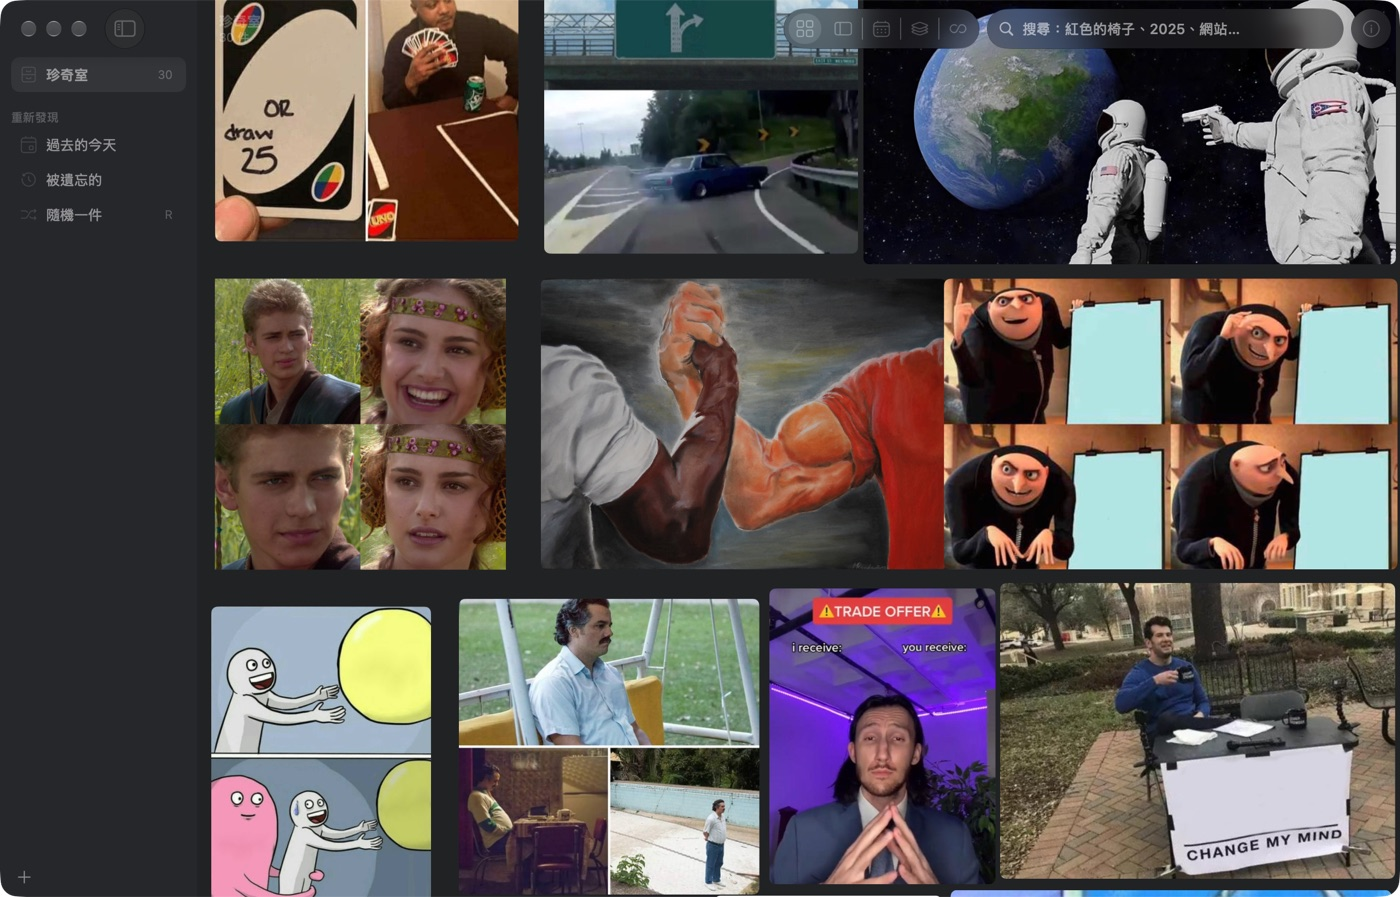
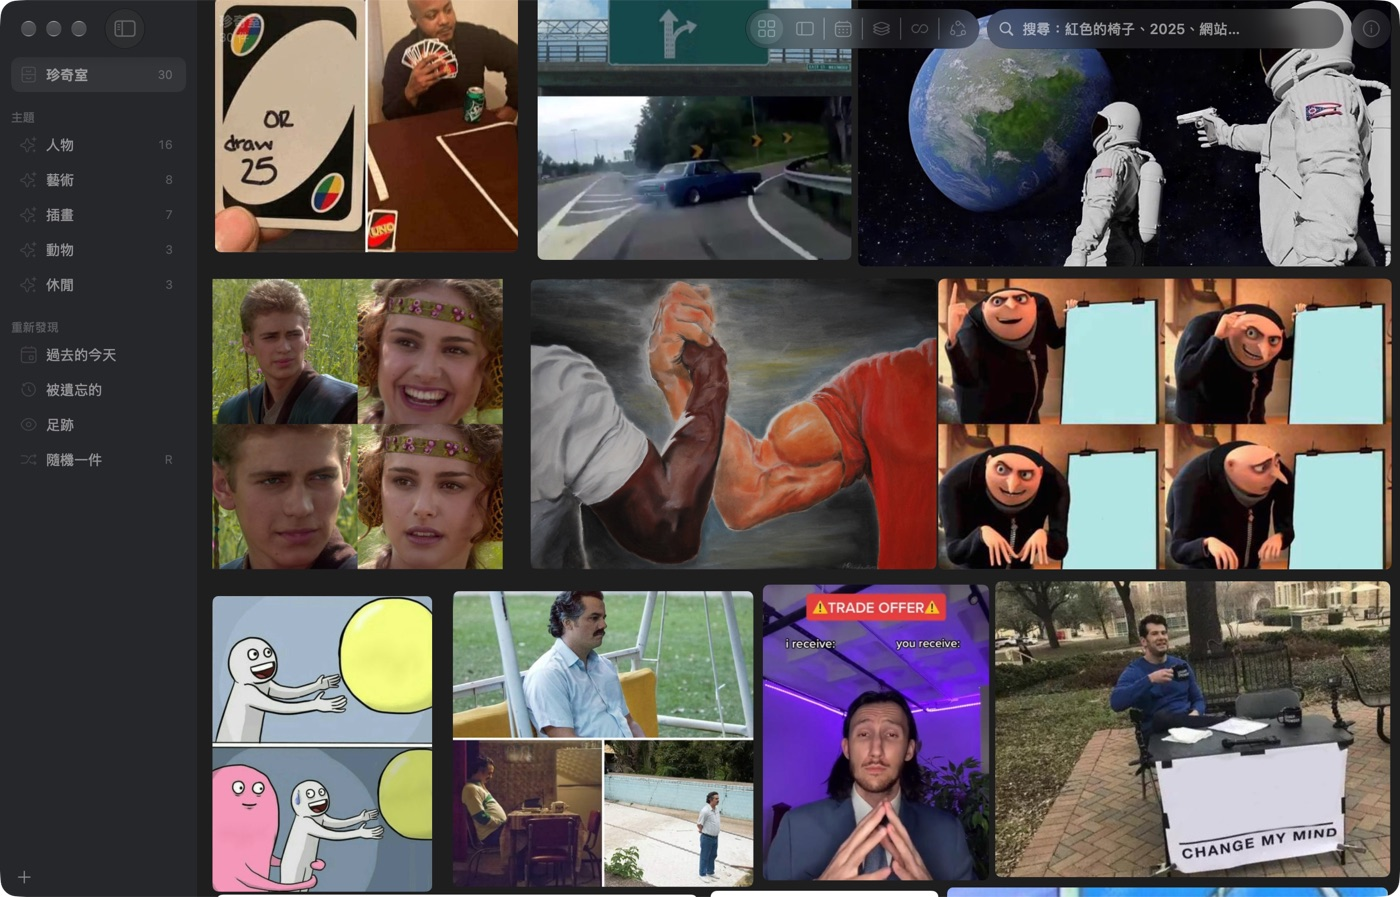
更新夜間報告與截圖

diff --git a/docs/OVERNIGHT-REPORT.md b/docs/OVERNIGHT-REPORT.md
@@ -2,15 +2,18 @@
 
 ## 一句話
 
-依照 Product Planning 與 User Stories Roadmap，**Stage 1 的完成定義 11 項全部達成**，Stage 2 在本機做到 OCR、物件與顏色辨識、相似、相關、主題、隨機重新發現、過去的今天與被遺忘的。每項都用 app 本身的端對端自我測試實際操作與截圖驗證；單元測試 56 個、端對端檢查 60 多項全部通過。所有 commit 都只在本機，沒有 push。
+依照 Product Planning 與 User Stories Roadmap：**Stage 1 的完成定義 11 項全部達成**；Stage 2 除了自然語言問答（US-211），其餘都已在本機實作（OCR、物件、顏色、相似、相關、語意搜尋、主題、名字、隨機、過去的今天、被遺忘的、足跡）；Stage 3 先做了 Canvas 依主題分堆、連線與文化圖譜。
 
-## 早上先做這 3 件事（約 5 分鐘）
+每項都用 app 本身的端對端自我測試實際操作並截圖驗證：單元測試 73 個、端對端檢查 80 多項（另有 4 項效能測試），全部通過。另外跑了兩輪背景程式碼審查，找到的 21 個問題全部修正並補上回歸測試。所有 commit 都只在本機，沒有 push。
 
-1. Wunderkammer 已經開著（`dist/Wunderkammer.app`）。你的 30 張迷因已轉成新格式並分析完成。
-2. 在 Safari 或 Zen 隨便打開一頁，按 `⌘⇧C`。Safari 會先問「自動化」權限；Zen 要到「系統設定 → 隱私權與安全性 → 輔助使用」打開 Wunderkammer。
-3. 在 app 裡按 `R`、`⌘K` 搜尋「receive」（只出現在 Trade Offer 圖裡的字）、搜尋「a cat at a dinner table」（語意搜尋），再右鍵任一張「找相似的」。
+## 早上先做這 4 件事（約 5 分鐘）
 
-截圖在 `docs/screenshots/`。
+1. Wunderkammer 已經開著（`dist/Wunderkammer.app`），選單列有珍奇櫃 icon。你的 30 張迷因已轉成新格式，也分析完了。
+2. 在 Safari 或 Zen 隨便打開一頁，按 `⌘⇧C`。Safari 第一次會問「自動化」權限；Zen 要到「系統設定 → 隱私權與安全性 → 輔助使用」打開 Wunderkammer。
+3. 在 app 裡試：按 `R`；`⌘K` 搜尋「receive」（只出現在 Trade Offer 圖裡的字）；搜尋「a cat at a dinner table」（語意搜尋）；右鍵任一張「找相似的」；`⌘6` 看文化圖譜。
+4. 想用中文描述搜尋：選單「編輯 → 啟用中文描述搜尋…」按「下載」（系統的翻譯語言，在本機運作）。
+
+截圖在 `docs/screenshots/`（23 張）。
 
 ## 完成項目
 
@@ -19,69 +22,74 @@
 | User Story | 狀態 | 說明 |
 |---|---|---|
 | US-001 收圖片 | 完成 | 複製圖片後 `⌘⇧C`；保存來源網址 |
-| US-002 收網址 | 完成 | 瀏覽器內 `⌘⇧C` 直接收目前分頁；標題、描述、預覽圖、favicon、網域在背景補上 |
+| US-002 收網址 | 完成 | 瀏覽器內 `⌘⇧C` 直接收目前分頁；標題、描述、預覽圖、favicon 在背景補上 |
 | US-003 收文字 | 完成 | 保存文字與來源網頁；畫成文字卡 |
-| US-004 拖放檔案 | 完成 | 圖片、影片、聲音、PDF、任何檔案；以參照收藏，不複製 |
+| US-004 拖放檔案 | 完成 | 圖片、影片、聲音、PDF、app、任何檔案；以參照收藏，不複製 |
 | US-005 截圖 | 完成 | `⌃⌘⇧C` |
-| US-006 全域快捷鍵 | 完成 | `⌘⇧C`；被佔用時提示改用選單 |
-| US-007 瀏覽器擴充 | 完成 | Chrome、Zen、Firefox 共用；另有書籤小程式 |
-| US-008 分享 | 完成 | 「分享 → Wunderkammer」，實際用系統分享流程測過 |
-| US-009 Cabinet | 完成 | Grid、Masonry、Timeline，外加原本的 Canvas、Infinity |
-| US-010 Quick Look | 完成 | `Space`；影音與文件用系統 Quick Look |
+| US-006 全域快捷鍵 | 完成 | `⌘⇧C`，可在設定（`⌘,`）自訂 |
+| US-007 瀏覽器擴充 | 完成 | Chrome、Zen、Firefox 共用；另有書籤小程式（`extensions/README.md`） |
+| US-008 分享 | 完成 | 「分享 → Wunderkammer」，用系統分享流程實測過 |
+| US-009 Cabinet | 完成 | Grid、Masonry、Timeline（日期標題固定置頂），外加 Canvas、Infinity、Graph |
+| US-010 Quick Look | 完成 | `Space`；影音、文件、長文字用系統 Quick Look |
 | US-011 基本搜尋 | 完成 | `⌘K`；也搜得到圖中文字、物件、顏色、年份 |
-| US-012 自動 metadata | 完成 | 標題、網址、網域、尺寸、長度、頁數、檔案類型、建立日期、收藏日期、來源 app |
+| US-012 自動 metadata | 完成 | 標題、網址、網域、尺寸、長度、頁數、類型、建立日期、收藏日期、來源 app |
 | US-013 移除與復原 | 完成 | `Delete` 不跳對話框，`⌘Z` 復原 |
 | US-014 零整理 | 完成 | 不需要建立任何資料夾或 tag；側欄的 view 都由系統維護 |
 
-另外：服務選單（任何 app 右鍵「服務 → 收進 Wunderkammer」）、`wunderkammer://capture` 連結、app icon（Reicon cabinet）、拖到 Dock icon、選單列 icon、Spotlight、設定視窗（自訂快捷鍵）。關掉視窗後 app 繼續在背景收藏。
+另外：服務選單、拖到 Dock、選單列 icon、Spotlight、`wunderkammer://` 連結、app icon（Reicon cabinet）、關掉視窗仍可在背景收藏、淺色與深色模式、VoiceOver（Grid）。
+
+### Stage 2 — Intelligence（全部在本機）
+
+| User Story | 狀態 | 說明 |
+|---|---|---|
+| US-201 Semantic Search | 完成 | MobileCLIP：用描述找圖；30 張迷因上 9 個描述全部第一名命中 |
+| US-202 Visual Search | 完成 | 右鍵「找相似的」 |
+| US-203 OCR | 完成 | Vision 自動偵測語言；PDF 讀文字層 |
+| US-204 Entities | 部分 | 英文名字可以；中文沒有命名實體辨識（系統不支援） |
+| US-205 Related | 完成 | Inspector「相關的收藏」：長得像、同網站、同作者、共同主題、同樣的名字 |
+| US-206 Random | 完成 | `R`，依年紀、沒看多久、看過幾次加權，顯示「你在 N 天前收藏了這個」 |
+| US-207 Forgotten Gems | 完成 | 「被遺忘的」：超過一個月沒看，以前反覆看過的排前面 |
+| US-208 On This Day | 完成 | 「過去的今天」 |
+| US-209 Connections | 部分 | Inspector 的名字與網站可點開，看所有連到它的收藏 |
+| US-210 Auto Collections | 完成 | 側欄「主題」由物件標籤自動長出（人物、插畫、動物……） |
+| US-211 Questions | 未做 | 需要 Apple 本機語言模型；這台 Mac 回報 `modelNotReady`，無法驗證 |
 
 ### Stage 3 — World（先做的部分）
 
 | User Story | 狀態 | 說明 |
 |---|---|---|
-| US-301 Canvas | 完成 | 原本就有；現在每個 view（類型、主題、board）都有自己的 canvas |
-| US-303 Spatial Clustering | 部分 | Canvas 右鍵「依主題分堆」，系統分成有名稱的堆 |
+| US-301 Canvas | 完成 | 每個 view（類型、主題、board）都有自己的 canvas |
+| US-302 Infinite Canvas | 部分 | 縮放、平移、排列、分堆、連線（⌥ 從一件拖到另一件） |
+| US-303 Spatial Clustering | 完成 | Canvas 右鍵「依主題分堆」 |
+| US-304 Culture Graph | 完成 | `⌘6`：主題、名字、網站與它們之間的共同收藏 |
+| US-305 Curiosity Trails | 部分 | 「足跡」記下看過什麼、怎麼來的；Inspector 顯示上次的來路 |
+| US-306～311 | 未做 | Discovery engine、同步、行動版、共享、公開 |
 
-### Stage 2 — Intelligence（本機）
+### 依你半夜的回饋
 
-| User Story | 狀態 | 說明 |
-|---|---|---|
-| US-203 OCR | 完成 | Vision 自動偵測語言；PDF 讀文字層 |
-| US-202 Visual Search | 完成 | 右鍵「找相似的」 |
-| US-205 Related | 完成 | Inspector 的「相關的收藏」：長得像、同網站、同作者、共同主題、提到同樣的名字 |
-| US-206 Random | 完成 | `R`，依年紀、沒看多久、看過幾次加權；顯示「你在 N 天前收藏了這個」 |
-| US-207 Forgotten Gems | 部分 | 「被遺忘的」：超過一個月沒看的；還沒有「品質」與「近期興趣」 |
-| US-208 On This Day | 完成 | 「過去的今天」 |
-| US-210 Auto Collections | 部分 | 依物件標籤自動長出「主題」（人物、插畫、動物……） |
-| US-204 Entities | 部分 | 英文名字可以；中文沒有命名實體辨識（系統不支援） |
-| US-201 Semantic Search | 完成 | 本機 MobileCLIP：用描述找圖，30 張迷因上 9 個描述全部第一名命中；中文描述需系統翻譯語言 |
-| US-209 Connections | 部分 | Inspector 的名字與網站可以點開，看所有連到它的收藏 |
-| US-211 Questions | 未做 | 需要 Apple 的本機語言模型；這台 Mac 回報 `modelNotReady`（Apple Intelligence 模型未就緒），無法驗證所以沒做 |
-
-### 依你半夜的回饋修正
-
-* Infinity 展開後點空白會穿透開啟下一張：已修正，並加入測試。
+* Infinity 展開後點空白會穿透開啟下一張：已修正並加入測試。
 * 專案結構照 Flione：xcodegen、`Config/Signing.xcconfig`、Reicon、`docs/DECISIONS.md`、本報告。
 
 ## 實測數據
 
-測試環境：這台 Mac、Debug build、`scripts/selftest.sh perf`。
+這台 Mac，Debug build，`scripts/selftest.sh perf`。
 
 | 項目 | 結果 | 目標 |
 |---|---|---|
 | 收一段文字 | 6–14 ms | ≤ 1 秒 |
 | 收一個網址（卡片立即出現，預覽之後補） | 16–23 ms | ≤ 1 秒 |
 | 收一張 3000×2000 圖片 | 18–19 ms | ≤ 1 秒 |
+| 收 5 個系統檔案（60 秒影片、聲音、HEIC、PDF、app） | 345 ms | — |
 | 收進 3,000 張圖 | 14.4 秒（每張 4.9 ms） | — |
 | 捲動 3,000 件 | 每步平均 0.6 ms，最差 4.6 ms | 每幀 < 16 ms |
 | 捏合縮放 3,000 件 | 每幀 0.45 ms；放開後重排 3.5 ms | 每幀 < 16 ms |
 | 搜尋 3,000 件 | 11 ms | — |
 | 記憶體（3,000 件捲完） | 約 900 MB（原本 6.8 GB，已修正） | 有上限 |
-| 理解 30 件（OCR＋物件＋顏色＋特徵） | 首次約 12 秒（含載入模型），之後約 1 秒 | 背景執行 |
+| 理解 30 件（OCR、物件、顏色、特徵） | 首次約 12 秒（含載入模型），之後約 1 秒 | 背景執行 |
 
 ## 我替你做的決定
 
-完整理由與修改方式在 `docs/DECISIONS.md`。重點：
+完整理由與修改方式在 `docs/DECISIONS.md`（D01–D23）。重點：
 
 | # | 決定 | 不同意時 |
 |---|---|---|
@@ -90,37 +98,25 @@
 | D04 | 沒有圖的東西畫成紙色、襯線字的卡片 | 改 `CardRenderer.swift` |
 | D05 | `⌘⇧C`：60 秒內剛複製的優先，否則收瀏覽器目前分頁 | 改 `CaptureController` |
 | D07 | 側欄：珍奇室、系統整理、主題、重新發現，board 放最後 | 改 `SidebarViewController` |
-| D09 | 圖片、網頁、短文字用自己的飛出預覽；影音、文件、長文字用 Quick Look | 改 `AppDelegate.openPreview` |
-| D11 | 瀏覽器擴充透過 `wunderkammer://`，不開本機伺服器 | — |
-| D13 | 分享延伸功能透過 App Group 收件匣 | — |
+| D17 | Spotlight 只放標題、網站、主題，不放文字內容 | 設定可關閉 |
+| D18 | 關掉視窗不結束 app | — |
+| D19 | 語意搜尋用本機 MobileCLIP，模型另外安裝 | `scripts/models/fetch-mobileclip.sh` |
 
 ## 需要你決定的事
 
-1. **語意搜尋的模型要不要隨 app 散布。** 目前模型（106 MB）由 `scripts/models/fetch-mobileclip.sh` 另外安裝，已裝在這台 Mac。要給別人用時，可以內建在 app 裡（app 變大），或第一次使用時詢問後下載。
-2. **中文描述搜尋。** 需要系統的「中文（繁體）→ 英文」翻譯語言。到選單「編輯 → 啟用中文描述搜尋…」按「下載」即可；沒下載時只對應已知詞（紅色、椅子、貓…）。
-3. **`⌘⇧C` 的衝突。** Chrome 開發者工具和 Finder 也用這組。現在可以在設定（⌘,）自己換；要不要換預設值？
-4. **Board 的去留。** 規劃文件說 Folder 不應是必要的；目前 board 保留在側欄最下面，Canvas 依然用得到。要不要完全隱藏，只在 Canvas 裡出現？
+1. **語意搜尋模型怎麼散布。** 模型（106 MB）目前由腳本另外安裝，這台 Mac 已裝。要給別人用時：內建在 app（app 變大），或第一次使用時詢問後下載。
+2. **`⌘⇧C` 的預設值。** Chrome 開發者工具和 Finder 也用這組。現在可以在設定裡換；要不要換預設？
+3. **Board 的去留。** 規劃文件說 Folder 不應是必要的；目前 board 放在側欄最下面。要不要完全隱藏，只在 Canvas 裡用？
+4. **US-211（問收藏問題）。** 要等這台 Mac 的 Apple Intelligence 模型就緒；或改用雲端模型（違反預設 Local-first，需要明確開關）。
 
-## 已知問題
+## 已知限制
 
 * 中文的人名、地名抓不到（Apple NaturalLanguage 不支援中文命名實體辨識）。
 * 被參照的檔案如果被刪除，只剩 representation 可看，無法開原檔。
-* 淺色模式已修正預覽背景與日期標題；其他畫面只截圖檢查過 Grid、Timeline、Inspector 與預覽。
+* 分享延伸功能需要 Team `7F654HZB2H` 簽章；ad-hoc 簽章時不運作。
+* 只有圖片時，文化圖譜只有主題節點；收進網頁與文字後才會出現名字與網站。
+* 移除後若在 Canvas 拖動了堆，⌘Z 復原的項目會回到第一堆，而不是原本那堆。
 
 ## Commit 一覽
 
-都在本機，沒有 push。每個 commit 是一個獨立功能，可以單獨 `git revert`。
-
-```text
-c4f3148 預覽與提示的細節
-a36285a 提到的名字與自動主題
-c735e42 效能：3,000 件的記憶體從 6.8 GB 降到約 900 MB；分享收件匣加強驗證
-50b2327 分享延伸功能：在任何 app 的分享選單收進 Wunderkammer
-b53fd6e App icon 與瀏覽器擴充
-27e7c97 Stage 2：在本機理解收藏（OCR、物件、顏色、相似）
-98f9bfa Cabinet：Masonry、Timeline、搜尋、系統 view、Inspector、隨機重新發現
-7744743 收藏：⌘⇧C、截圖、服務選單、wunderkammer:// 與剪貼簿
-686f762 Curiosity 資料模型與 Representation 引擎
-00b6de3 改用 Xcode 專案（xcodegen）與 Reicon 圖示
-f8eefb9 初始版本：Grid、Canvas、Infinity、Board 與預覽
-```
+都在本機，沒有 push。每個 commit 是一個獨立功能，可以單獨 `git revert`。完整列表：`git log --oneline`。
